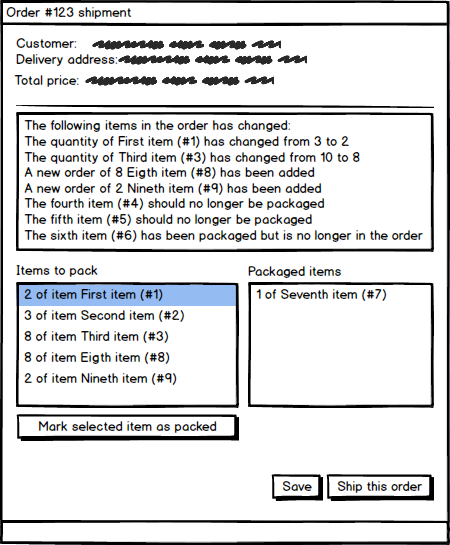
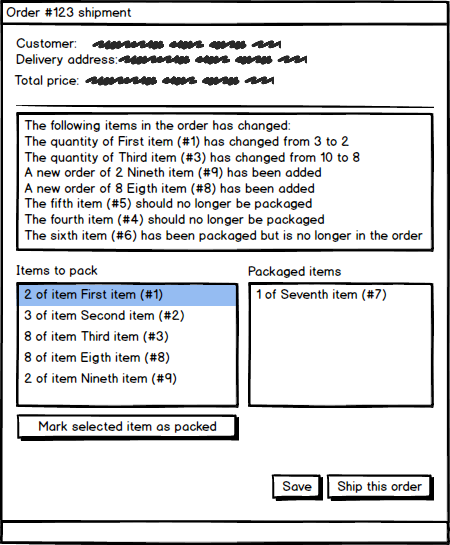
Implemented phase 4

Changed region(s): [[0.1244, 0.2807, 0.7467, 0.4367]]

diff --git a/TDD.Demo/TDD.Demo.Presentation.Test/Shipments/ChangedOrderItemsInformationLoaderTests/NärFleraHarÄndrats.cs b/TDD.Demo/TDD.Demo.Presentation.Test/Shipments/ChangedOrderItemsInformationLoaderTests/NärFleraHarÄndrats.cs
@@ -1,0 +1,115 @@
+using System.Linq;
+using NUnit.Framework;
+using TDD.Demo.Presentation.Shipments.Loaders;
+using TDD.Demo.TestTools;
+
+namespace TDD.Demo.Presentation.Test.Shipments.ChangedOrderItemsInformationLoaderTests
+{
+    public class NärFleraHarÄndrats : GivetEnChangedOrderItemsInformationLoader
+    {
+        private readonly string[] _expectedResult =
+        {
+            Header,
+            "The quantity of First item (#1) has changed from 3 to 2",
+            "The quantity of Third item (#3) has changed from 10 to 8",
+            "A new order of 2 Nineth item (#9) has been added",
+            "A new order of 8 Eigth item (#8) has been added",
+            "The Fifth item (#5) should no longer be packaged",
+            "The Fourth item (#4) should no longer be packaged",
+            "The Sixth item (#6) has been packaged but is no longer in the order"
+        };
+
+        private ChangedOrderItemResult[] _changedOrderItems;
+
+        private string[] _result;
+
+        protected override void Given()
+        {
+            base.Given();
+
+            _changedOrderItems = new[]
+            {
+                new ChangedOrderItemResult
+                {
+                    Item = {Id = 1, Name = "First item"},
+                    CurrentQuantity = 2,
+                    New = false,
+                    PreviousQuantity = 3,
+                    RemovedFromOrder = false,
+                    RemovedFromOrderAndNeedsUnpacking = false
+                },
+                new ChangedOrderItemResult
+                {
+                    Item = {Id = 3, Name = "Third item"},
+                    CurrentQuantity = 8,
+                    New = false,
+                    PreviousQuantity = 10,
+                    RemovedFromOrder = false,
+                    RemovedFromOrderAndNeedsUnpacking = false
+                },
+                new ChangedOrderItemResult
+                {
+                    Item = {Id = 4, Name = "Fourth item"},
+                    CurrentQuantity = 1,
+                    New = false,
+                    PreviousQuantity = 1,
+                    RemovedFromOrder = true,
+                    RemovedFromOrderAndNeedsUnpacking = false
+                },
+                new ChangedOrderItemResult
+                {
+                    Item = {Id = 5, Name = "Fifth item"},
+                    CurrentQuantity = 1,
+                    New = false,
+                    PreviousQuantity = 1,
+                    RemovedFromOrder = true,
+                    RemovedFromOrderAndNeedsUnpacking = false
+                },
+                new ChangedOrderItemResult
+                {
+                    Item = {Id = 6, Name = "Sixth item"},
+                    CurrentQuantity = 1,
+                    New = false,
+                    PreviousQuantity = 1,
+                    RemovedFromOrder = true,
+                    RemovedFromOrderAndNeedsUnpacking = true
+                },
+                new ChangedOrderItemResult
+                {
+                    Item = {Id = 8, Name = "Eigth item"},
+                    CurrentQuantity = 8,
+                    New = true,
+                    PreviousQuantity = null,
+                    RemovedFromOrder = false,
+                    RemovedFromOrderAndNeedsUnpacking = false
+                },
+                new ChangedOrderItemResult
+                {
+                    Item = {Id = 9, Name = "Nineth item"},
+                    CurrentQuantity = 2,
+                    New = true,
+                    PreviousQuantity = null,
+                    RemovedFromOrder = false,
+                    RemovedFromOrderAndNeedsUnpacking = false
+                }
+            };
+        }
+
+        protected override void When()
+        {
+            _result = ParseResult(Loader.GetChangedOrderItemInformation(_changedOrderItems));
+        }
+
+        [Then]
+        public void SåSkaDetVaraKorrektAntalRader()
+        {
+            Assert.AreEqual(_expectedResult.Length, _result.Length);
+        }
+
+        [Then]
+        public void SåSkaAllaRaderVaraKorrektOchIRättOrdning()
+        {
+            Assert.IsTrue(_expectedResult.SequenceEqual(_result));
+        }
+    }
+}

diff --git a/TDD.Demo/TDD.Demo.Presentation/Shipments/Loaders/ChangedOrderItemsInformationLoader.cs b/TDD.Demo/TDD.Demo.Presentation/Shipments/Loaders/ChangedOrderItemsInformationLoader.cs
@@ -10,40 +10,39 @@ namespace TDD.Demo.Presentation.Shipments.Loaders
 
         public string GetChangedOrderItemInformation(IEnumerable<ChangedOrderItemResult> changedOrderItems)
         {
-            var result = new List<string>();
+            var result = GetChangedOrderInformation(changedOrderItems).ToArray();
 
-            foreach (var changedOrderItem in changedOrderItems)
+            return result.Any()
+                ? string.Join(Environment.NewLine, new[] {Header}.Concat(result.OrderBy(x => x.Item1).ThenBy(x => x.Item2).Select(x => x.Item2)))
+                : string.Empty;
+        }
+
+        private static IEnumerable<Tuple<int, string>>  GetChangedOrderInformation(IEnumerable<ChangedOrderItemResult> changedItems)
+        {
+            return changedItems.Select(x =>
             {
-                if (changedOrderItem.RemovedFromOrderAndNeedsUnpacking)
+                if (x.RemovedFromOrderAndNeedsUnpacking)
                 {
-                    result.Add(string.Format("The {0} (#{1}) has been packaged but is no longer in the order", changedOrderItem.Item.Name, changedOrderItem.Item.Id));
-                    continue;
+                    return new Tuple<int, string>(4, string.Format("The {0} (#{1}) has been packaged but is no longer in the order", x.Item.Name, x.Item.Id));
                 }
 
-                if (changedOrderItem.RemovedFromOrder)
+                if (x.RemovedFromOrder)
                 {
-                    result.Add(string.Format("The {0} (#{1}) should no longer be packaged", changedOrderItem.Item.Name, changedOrderItem.Item.Id));
-                    continue;
+                    return new Tuple<int, string>(3, string.Format("The {0} (#{1}) should no longer be packaged", x.Item.Name, x.Item.Id));
                 }
 
-                if (changedOrderItem.New)
+                if (x.New)
                 {
-                    result.Add(string.Format("A new order of {0} {1} (#{2}) has been added", changedOrderItem.CurrentQuantity, changedOrderItem.Item.Name, changedOrderItem.Item.Id));
-                    continue;
+                    return new Tuple<int, string>(2, string.Format("A new order of {0} {1} (#{2}) has been added", x.CurrentQuantity, x.Item.Name, x.Item.Id));
                 }
 
-                if (changedOrderItem.PreviousQuantity != changedOrderItem.CurrentQuantity)
+                if (x.PreviousQuantity != x.CurrentQuantity)
                 {
-                    result.Add(string.Format("The quantity of {0} (#{1}) has changed from {2} to {3}", changedOrderItem.Item.Name, changedOrderItem.Item.Id, changedOrderItem.PreviousQuantity, changedOrderItem.CurrentQuantity));
+                    return new Tuple<int, string>(1, string.Format("The quantity of {0} (#{1}) has changed from {2} to {3}", x.Item.Name, x.Item.Id, x.PreviousQuantity, x.CurrentQuantity));
                 }
-            }
 
-            if (result.Any())
-            {
-                result.Insert(0, Header);
-            }
-
-            return string.Join(Environment.NewLine, result);
+                throw new ArgumentException(string.Format("The item #{0} has not been changed!", x.Item.Id));
+            });
         }
     }
 }

diff --git a/TDD.Demo/TDD.Demo.Presentation.Test/Shipments/ChangedOrderItemsInformationLoaderTests/NärEnInteÄrÄndrad.cs b/TDD.Demo/TDD.Demo.Presentation.Test/Shipments/ChangedOrderItemsInformationLoaderTests/NärEnInteÄrÄndrad.cs
@@ -1,0 +1,40 @@
+using System;
+using NUnit.Framework;
+using TDD.Demo.Presentation.Shipments.Loaders;
+using TDD.Demo.TestTools;
+
+namespace TDD.Demo.Presentation.Test.Shipments.ChangedOrderItemsInformationLoaderTests
+{
+    public class NärEnInteÄrÄndrad : GivetEnChangedOrderItemsInformationLoader
+    {
+        private ChangedOrderItemResult[] _notChangedOrderItem;
+
+        protected override void Given()
+        {
+            base.Given();
+
+            _notChangedOrderItem = new[]
+            {
+                new ChangedOrderItemResult
+                {
+                    CurrentQuantity = 1,
+                    Item = {Id = 1},
+                    New = false,
+                    PreviousQuantity = 1,
+                    RemovedFromOrder = false,
+                    RemovedFromOrderAndNeedsUnpacking = false
+                }
+            };
+        }
+
+        protected override void When()
+        {
+        }
+
+        [Then]
+        public void SåSkaEttExceptionKastas()
+        {
+            Assert.Throws<ArgumentException>(() => Loader.GetChangedOrderItemInformation(_notChangedOrderItem));
+        }
+    }
+}
